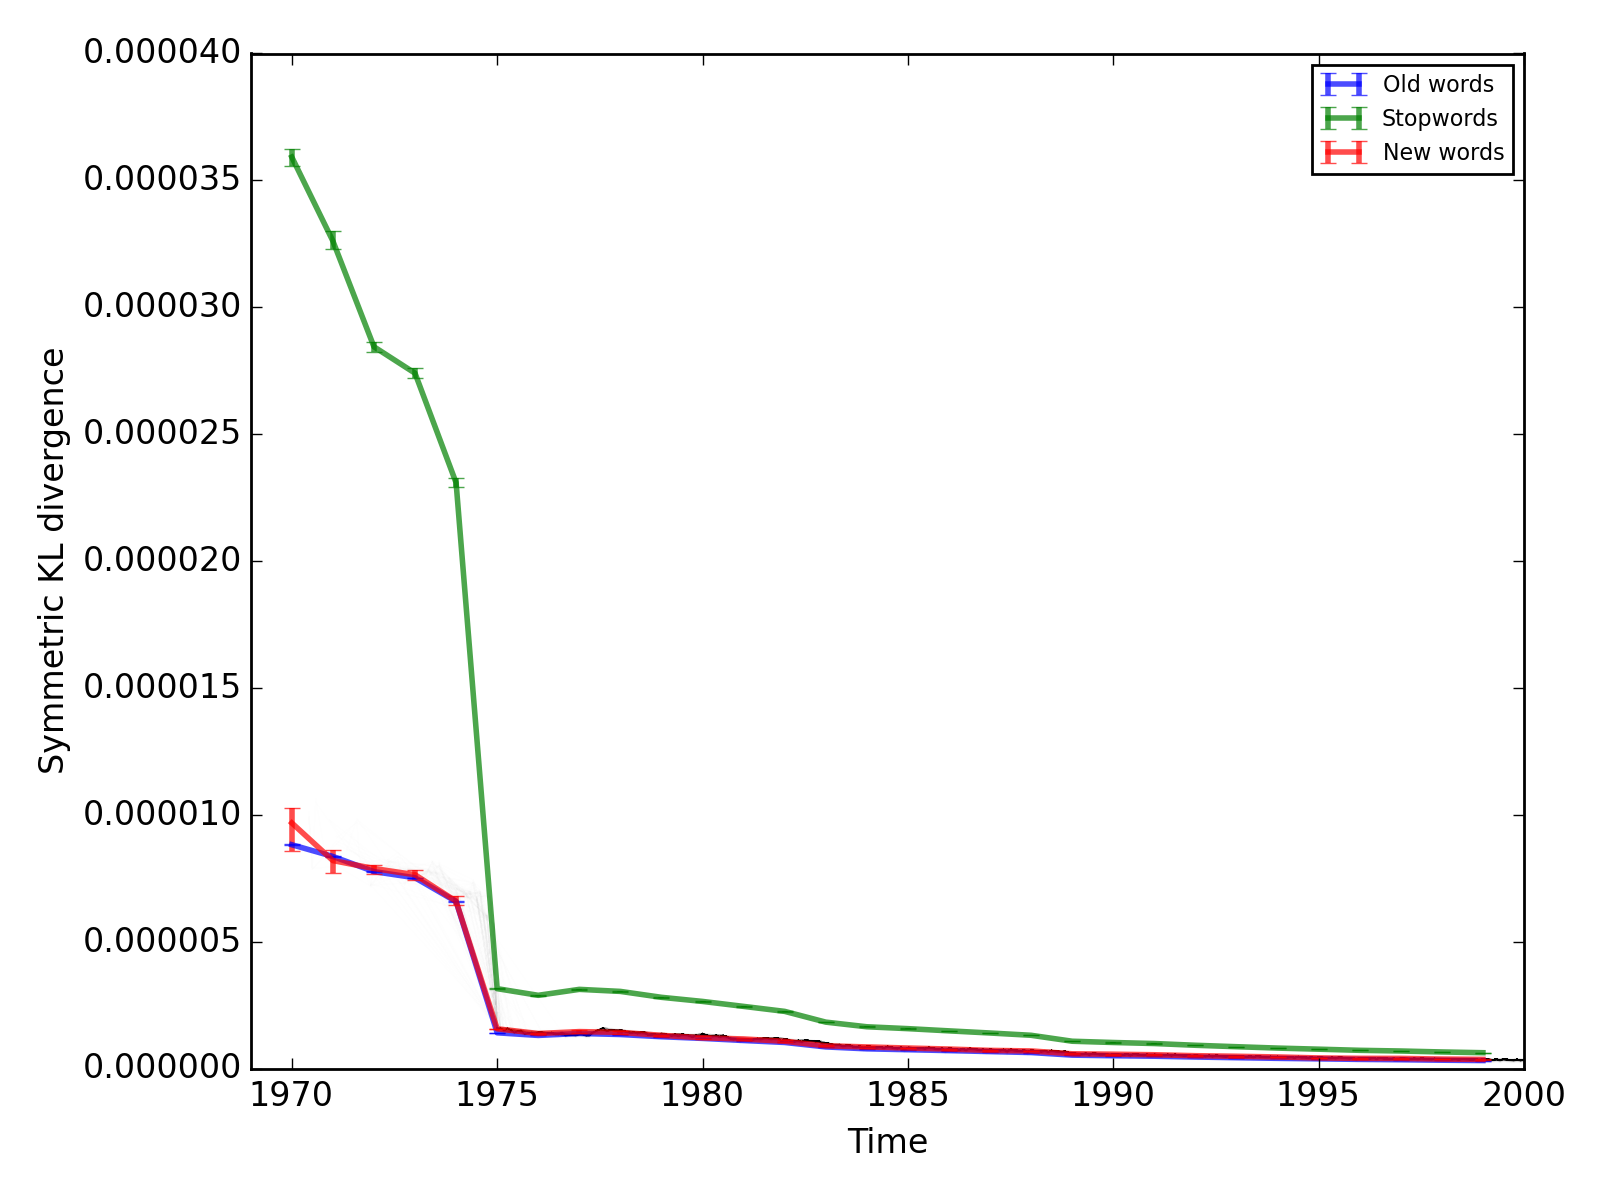
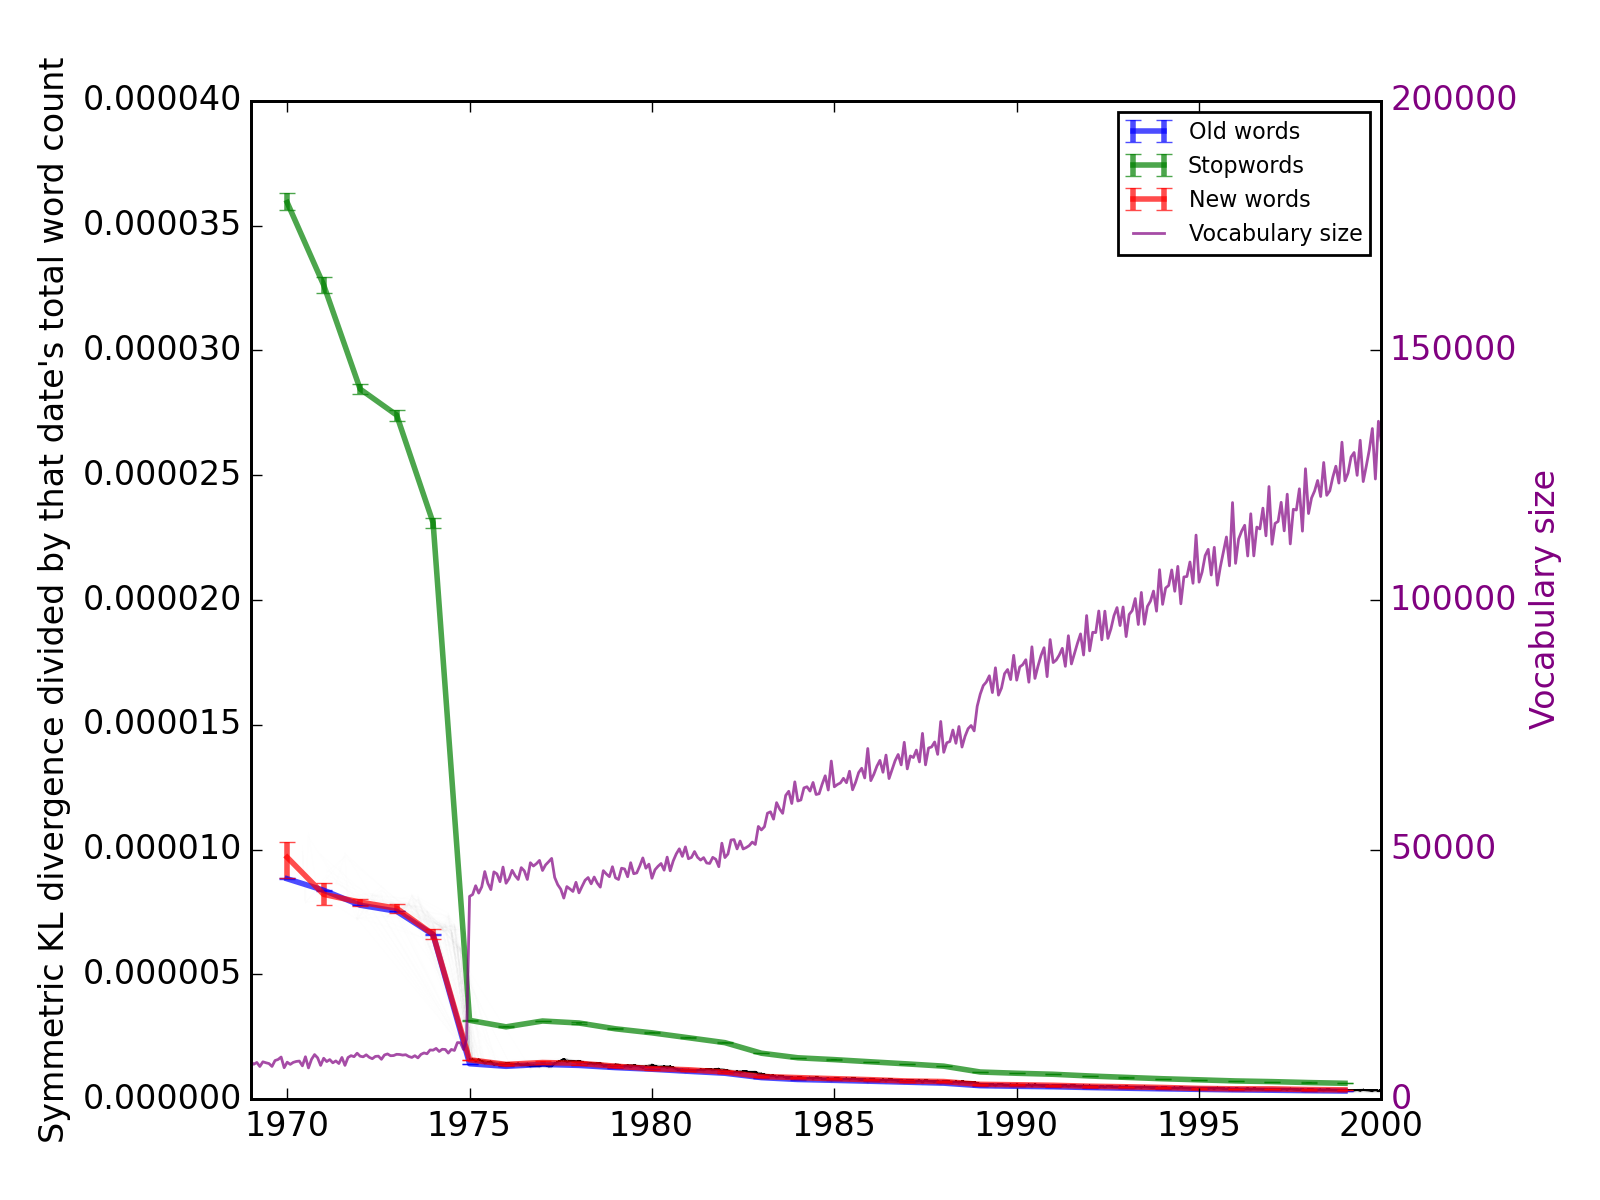
added a line for vocabulary size to time series plots

diff --git a/graph_and_stuff.py b/graph_and_stuff.py
@@ -29,16 +29,23 @@ with open(old_words_filename) as fp:
     old_words_table = sorted([ row for row in csv.reader(fp, delimiter=',') ])
 
 # Unpack total word counts for each month.
-counts_filename = 'monthly_counts.csv'
-monthly_counts = dict()
+counts_filename = 'monthly_word_counts.csv'
+monthly_word_counts = dict()
 with open(counts_filename) as fp:
     reader = csv.reader(fp, delimiter=',')
     next(reader)
-    for row in csv.reader(fp, delimiter=','):
-        date = string_to_date(row[0])
-        count = int(row[1])
-        monthly_counts[date] = count
+    monthly_word_counts = { string_to_date(row[0]) : int(row[1])
+                            for row in reader }
     
+# Unpack vocabulary size for each month.
+counts_filename = 'monthly_vocab_size.csv'
+monthly_vocab_size = dict()
+with open(counts_filename) as fp:
+    reader = csv.reader(fp, delimiter=',')
+    next(reader)
+    monthly_vocab_size = { string_to_date(row[0]) : int(row[1])
+                           for row in reader }
+
 # Unpack the KL score data and compute means and stddevs for each word.
 kls_filename = '_word_symKL_scores.csv'
 wordtypes = ['old','new','stop']
@@ -63,7 +70,7 @@ for wordtype in wordtypes:
             word = tokens[0]
             scores = [ float(score) if score != '' else None
                        for score in tokens[1:] ]
-            relative_scores = [ score / monthly_counts[dates[i]]
+            relative_scores = [ score / monthly_word_counts[dates[i]]
                                 if score is not None else None
                                 for (i, score) in enumerate(scores) ]
             kl_scores[wordtype][word] = scores
@@ -124,6 +131,8 @@ plt.ylabel('Number of new words')
 plt.tight_layout()
 plt.savefig('plots/new_words_per_date.png', dpi=150)
 plt.close()
+
+
 
 # For both old and new words, plot three histograms:
 # - one of all KL scores for all words,
@@ -306,8 +315,6 @@ for colored_by in colored_bys:
                        + list(log_old_term_freqs.values()))
             maxx = max(list(log_term_freqs.values())
                        + list(log_old_term_freqs.values()))
-        print(minn)
-        print(maxx)
         colors = [ (z[word] - minn) / (maxx - minn)
                    for word in words[wordtype]
                    if remove_nones(kl_scores[wordtype][word]) != [] ]
@@ -315,6 +322,7 @@ for colored_by in colored_bys:
         ax.set_axis_bgcolor('0.25')
         ax.scatter(kl_means[wordtype], kl_stddevs[wordtype], s=1,
                    color=coolwarm(colors))
+                   #marker='+' if wordtype=='old' else 'x')
 
     m = plt.cm.ScalarMappable(cmap=coolwarm)
     m.set_array([0,1])
@@ -488,40 +496,50 @@ for kls in [kl_scores, relative_kl_scores]:
         if line == 'Old words':
             color = 'b'
             width = 2
-            style = '-'
         if line == 'Stopwords':
             color = 'g'
             width = 2
-            style = '-'
         elif line == 'New words':
             color = 'r'
             width = 2
-            style = '-'
         elif line == 'Left mode of new words':
             color = 'c'
             width = 2
-            style = '-'
         elif line == 'Right mode of new words':
             color = 'purple'
             width = 2
-            style = '-'
     
         ax.errorbar(yrs, remove_nones(means[line]),
                     yerr=[remove_nones(lower_errs[line]),
                           remove_nones(upper_errs[line])],
-                    linewidth=width, color=color, linestyle=style,
+                    linewidth=width, color=color,
                     label=line, alpha=0.7)#, capsize=9
     
+    # Plot vocabulary size using right y-axis. 
+    ax2 = ax.twinx()
+    pairs = sorted(list(monthly_vocab_size.items()))
+    xs = [ date[0]+(date[1]-1)/12 for (date,size) in pairs ]
+    ys = [ size for (date,size) in pairs ]
+    ax2.plot(xs, ys, linewidth=1, color='purple', alpha=0.7,
+             label='Vocabulary size')
+    ax2.set_ylabel('Vocabulary size', color='purple')
+    for tick in ax2.get_yticklabels():
+        tick.set_color('purple')
+
     plt.xlabel('Time')
     
     if kls == kl_scores:
         rel = ''
-        plt.legend(loc='lower right', prop={'size':8})
-        plt.ylabel('Symmetric KL divergence')
+        loc = 'lower right'
+        ax.set_ylabel('Symmetric KL divergence')
     elif kls == relative_kl_scores:
         rel = '_rel'
-        plt.legend(loc='upper right', prop={'size':8})
-        plt.ylabel("Symmetric KL divergence divided by that date's total word count")
+        loc = 'upper right'
+        ax.set_ylabel("Symmetric KL divergence divided by that date's total word count")
+
+    h1, l1 = ax.get_legend_handles_labels()
+    h2, l2 = ax2.get_legend_handles_labels()
+    ax.legend(h1+h2, l1+l2, loc=loc, prop={'size':8})
 
     ax.set_xlim([1969, 2000])
     plt.tight_layout()

diff --git a/get_word_totals.py b/get_word_totals.py
@@ -2,7 +2,8 @@ import os
 
 directory = 'monthly_abstracts/'
 filenames = sorted([ f for f in os.listdir(directory) ])
-output_filename = 'monthly_counts.csv'
+word_counts_filename = 'monthly_word_counts.csv'
+vocab_size_filename = 'monthly_vocab_size.csv'
 
 # Converts '2007-7.txt' to the tuple (2007,7).
 def filename_to_date(filename):
@@ -17,17 +18,21 @@ def preprocess(text):
         text = text.replace(p,' {} '.format(p))
     return text
  
-monthly_counts = []
+monthly_word_counts = []
+monthly_vocab_size = []
 for filename in filenames:
     date = filename_to_date(filename)
     with open(directory+filename) as fp:
-        count = len(preprocess(fp.read()).split())
-        monthly_counts.append([date, count])
+        words = preprocess(fp.read()).split()
+        monthly_word_counts.append([date, len(words)])
+        monthly_vocab_size.append([date, len(set(words))])
     print(date)
 
-monthly_counts.sort()
-
-with open(output_filename, 'w') as fp:
-    fp.write('date,num words\n')
-    for (date, count) in monthly_counts:
-        fp.write('{}-{},{}\n'.format(date[0], date[1], count))
+filenames = (word_counts_filename, vocab_size_filename)
+lists = (monthly_word_counts, monthly_vocab_size)
+for i in range(len(filenames)):
+    lists[i].sort()
+    with open(filenames[i], 'w') as fp:
+        fp.write('date,num words\n')
+        for (date, count) in lists[i]:
+            fp.write('{}-{},{}\n'.format(date[0], date[1], count))
